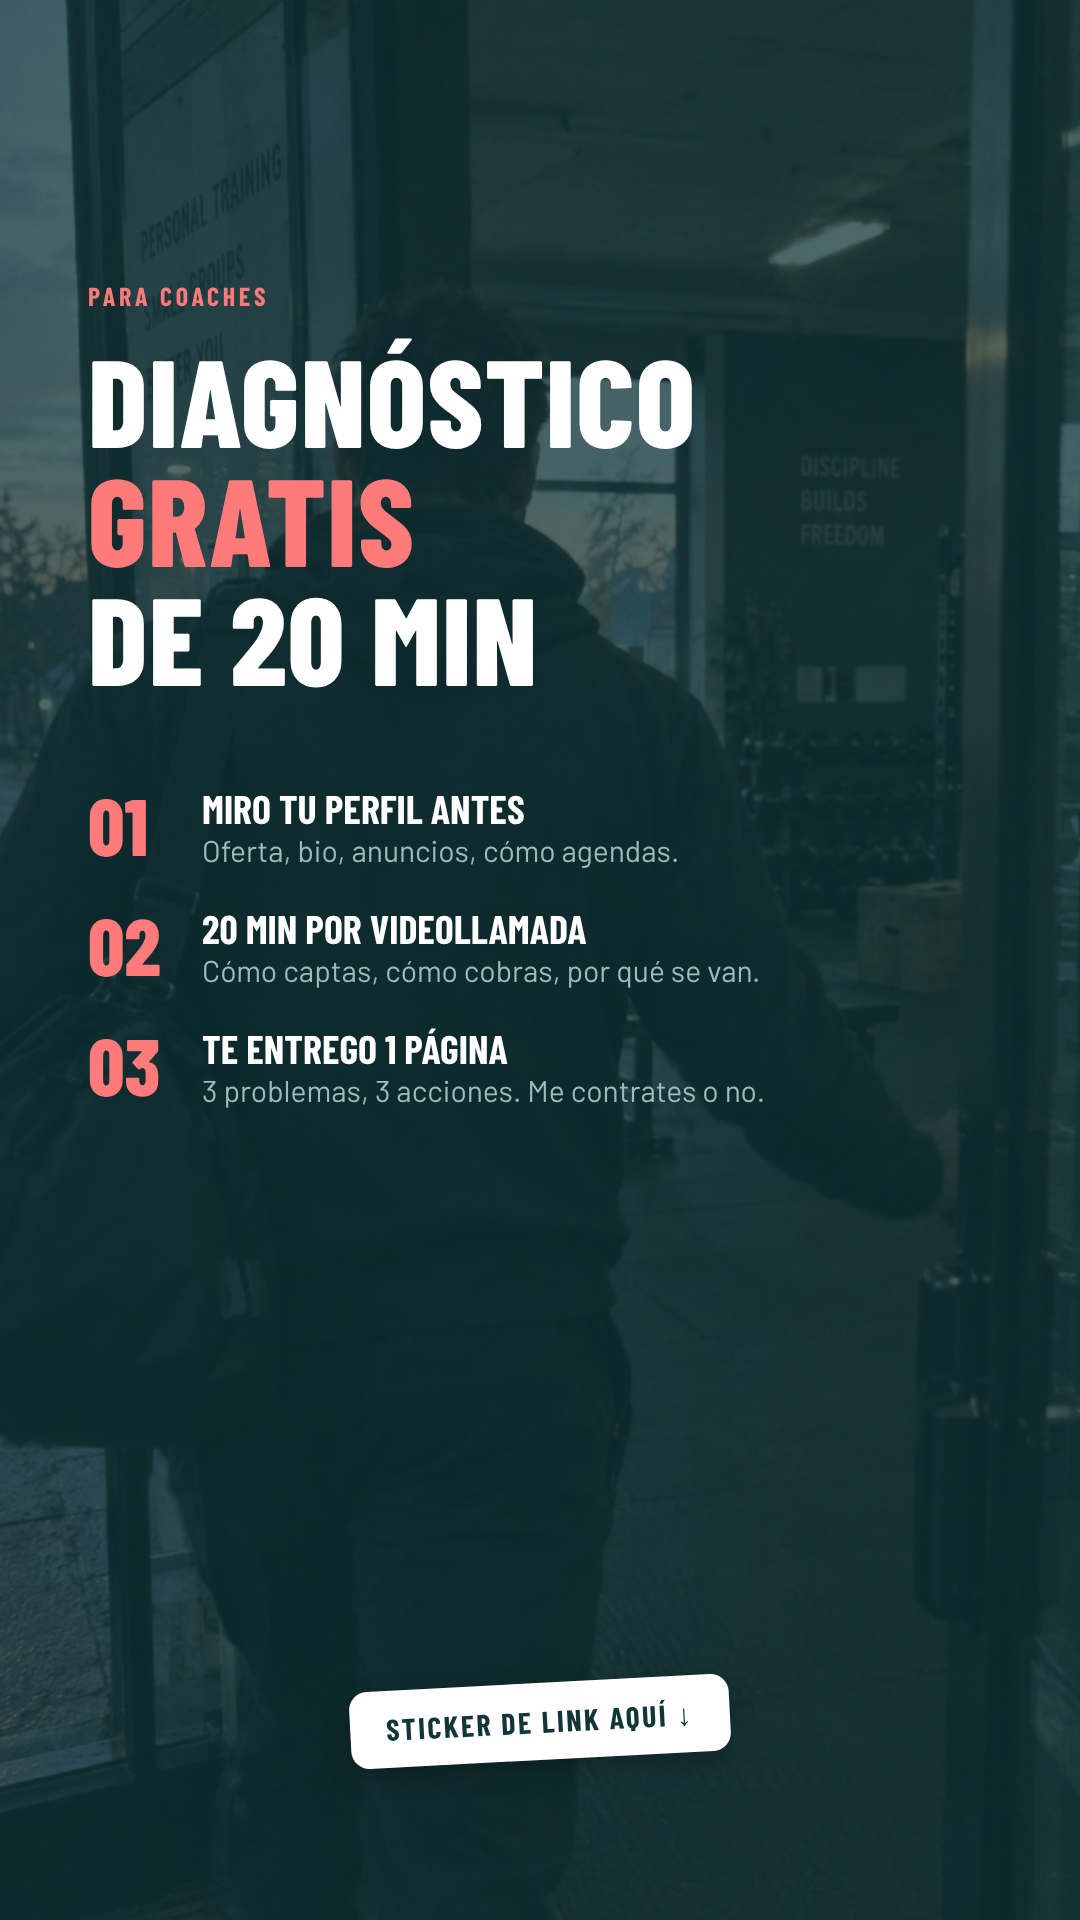
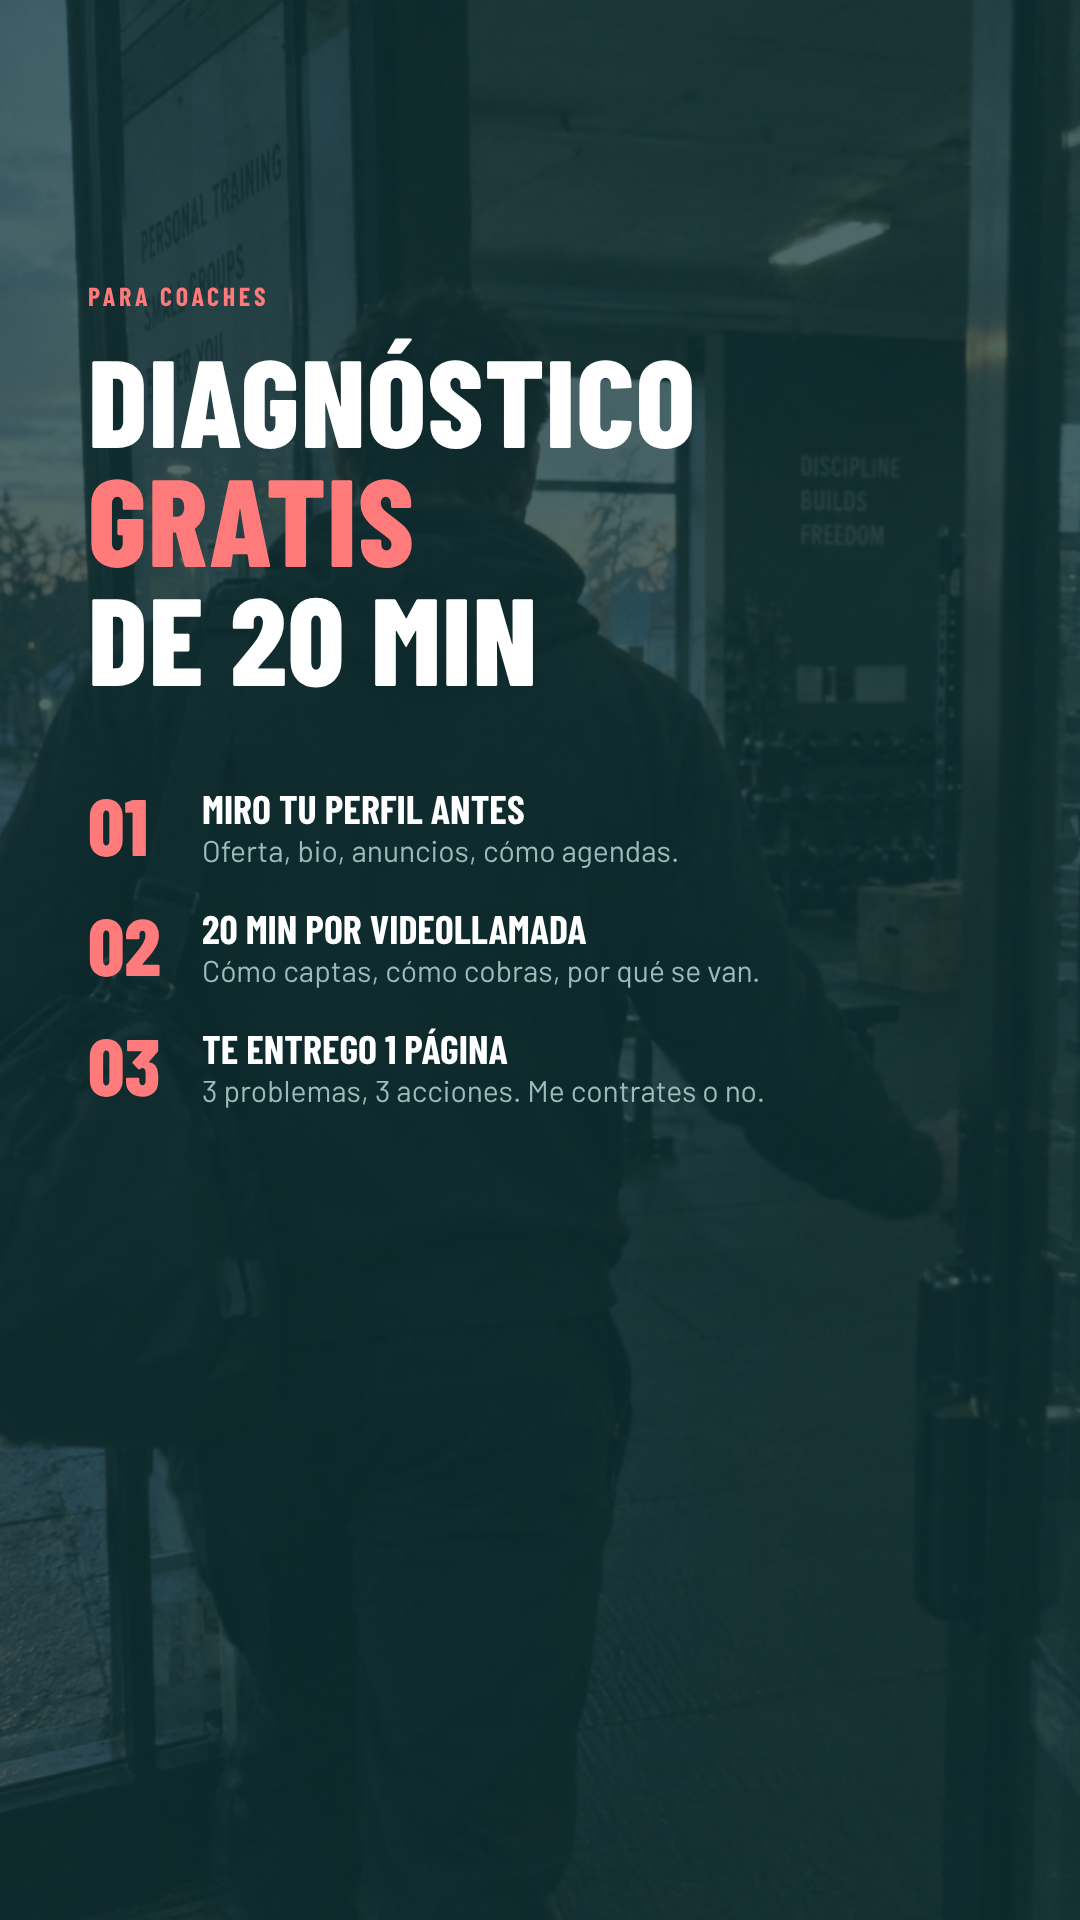
Add publishing guide for Influence Fit graphics and make stories postable
- marca/graficas/PUBLICACION.md: each piece classified as ad, post or story,
  with hook, full caption, hashtags, Meta Ads fields and a two-week schedule
- Stories: bottom safe zone so the reply bar and ad button don't cover text;
  removed the rendered sticker placeholder and the poll instructions
- Founder counters reset to 5 of 5 available (no invented signups)

Claude-Session: https://claude.ai/code/session_01M6XVhTMSYrhRKbgCyp2Bbs

Changed region(s): [[0.3056, 0.875, 0.7028, 0.9375]]

diff --git a/influence-fit/marca/graficas/plantillas/story-02-cupos.html b/influence-fit/marca/graficas/plantillas/story-02-cupos.html
@@ -1,8 +1,8 @@
 <!doctype html><html lang="es"><head><meta charset="utf-8"><link rel="stylesheet" href="../base.css"></head><body><!-- 1080x1920 · Historia: cupos fundadores (editar la clase taken según cupos vendidos) -->
 <div class="canvas story dark photo soft" style="background-image:url(../fotos/litoral-amanecer.jpg)"><div class="pad" style="display:flex;flex-direction:column;height:100%;padding-top:300px">
-  <div class="eyebrow">Quedan cupos fundadores</div>
-  <div style="display:flex;align-items:baseline;gap:30px"><span class="num" style="font-size:420px;line-height:.85">4</span><span style="font-family:var(--display);font-weight:800;text-transform:uppercase;font-size:84px;line-height:1">de 5<br>cupos</span></div>
+  <div class="eyebrow" style="margin-bottom:48px">Quedan cupos fundadores</div>
+  <div style="display:flex;align-items:baseline;gap:30px"><span class="num" style="font-size:420px;line-height:.85">5</span><span style="font-family:var(--display);font-weight:800;text-transform:uppercase;font-size:84px;line-height:1">de 5<br>cupos</span></div>
   <p class="lede" style="margin-top:56px;font-size:40px;max-width:20ch">Sistema de clientes gratis + garantía de 15 evaluaciones en 60 días. Para los primeros 5 coaches.</p>
-  <div class="cupos" style="margin-top:72px;gap:28px"><i class="taken" style="width:150px;height:150px;font-size:64px">1</i><i style="width:150px;height:150px;font-size:64px">2</i><i style="width:150px;height:150px;font-size:64px">3</i><i style="width:150px;height:150px;font-size:64px">4</i><i style="width:150px;height:150px;font-size:64px">5</i></div>
+  <div class="cupos" style="margin-top:72px;gap:28px"><i style="width:150px;height:150px;font-size:64px">1</i><i style="width:150px;height:150px;font-size:64px">2</i><i style="width:150px;height:150px;font-size:64px">3</i><i style="width:150px;height:150px;font-size:64px">4</i><i style="width:150px;height:150px;font-size:64px">5</i></div>
   <div style="margin-top:auto;display:grid;gap:28px"><span class="btn wa" style="justify-content:center">Escríbeme "fundador"</span><div class="foot" style="margin:0"><span class="logo"><i></i><b>Influence<span>Fit</span><small>by Influence Chile</small></b></span><span>Hecho por un coach</span></div></div>
 </div></div></body></html>

diff --git a/influence-fit/marca/graficas/plantillas/story-03-encuesta.html b/influence-fit/marca/graficas/plantillas/story-03-encuesta.html
@@ -2,11 +2,6 @@
 <div class="canvas story" style="background:var(--bg-2)"><div class="pad" style="display:flex;flex-direction:column;height:100%;padding-top:300px">
   <div class="eyebrow" style="color:var(--teal)">Coaches, respondan honesto</div>
   <h1 style="font-size:120px">¿Cuántas horas<br>a la semana<br>pierdes<br><span class="hl">contestando<br>WhatsApp?</span></h1>
-  <div style="margin-top:100px;display:grid;gap:20px">
-    <div class="card" style="padding:30px 40px;font-family:var(--display);text-transform:uppercase;font-size:40px;font-weight:700">Menos de 3</div>
-    <div class="card" style="padding:30px 40px;font-family:var(--display);text-transform:uppercase;font-size:40px;font-weight:700">3 a 7</div>
-    <div class="card" style="padding:30px 40px;font-family:var(--display);text-transform:uppercase;font-size:40px;font-weight:700;border-color:var(--accent)">Más de 7 (y me da vergüenza)</div>
-  </div>
-  <p style="margin-top:40px;font-size:28px;color:var(--muted)">Reemplaza las tarjetas por el sticker de encuesta de Instagram. Al día siguiente, historia con el resultado y el link al diagnóstico.</p>
+  <div style="flex:1"></div>
   <div class="foot" style="margin-top:auto"><span class="logo"><i></i><b>Influence<span>Fit</span><small>by Influence Chile</small></b></span><span>@influence.chile</span></div>
 </div></div></body></html>

diff --git a/influence-fit/marca/graficas/plantillas/story-04-prueba.html b/influence-fit/marca/graficas/plantillas/story-04-prueba.html
@@ -2,7 +2,7 @@
 <div class="canvas story dark"><div class="pad" style="display:flex;flex-direction:column;height:100%;padding-top:200px">
   <div class="eyebrow">Mis propios canales · este mes</div>
   <h1 style="font-size:96px">Esto es lo que<br><span class="hl">hago yo.</span></h1>
-  <div class="foto" style="margin-top:56px;height:960px;border-radius:28px;border:2px solid var(--ink-line)"><div class="nota">Captura real: reporte mensual o agenda de evaluaciones. Tapar nombres de clientes.</div></div>
+  <div class="foto" style="margin-top:48px;height:800px;border-radius:28px;border:2px solid var(--ink-line)"><div class="nota">Captura real: reporte mensual o agenda de evaluaciones. Tapar nombres de clientes.</div></div>
   <p class="lede" style="margin-top:40px;font-size:34px">El mismo sistema que instalo en tu negocio. Los números se actualizan cada mes.</p>
   <div class="foot" style="margin-top:auto"><span class="logo"><i></i><b>Influence<span>Fit</span><small>by Influence Chile</small></b></span><span>Hecho por un coach</span></div>
 </div></div></body></html>

diff --git a/influence-fit/marca/graficas/plantillas/story-01-diagnostico.html b/influence-fit/marca/graficas/plantillas/story-01-diagnostico.html
@@ -7,5 +7,5 @@
     <div style="display:grid;grid-template-columns:90px 1fr;gap:24px;align-items:start"><span class="num" style="font-size:80px">02</span><div><b style="font-family:var(--display);text-transform:uppercase;font-size:40px;display:block">20 min por videollamada</b><span style="font-size:30px;color:var(--ink-muted)">Cómo captas, cómo cobras, por qué se van.</span></div></div>
     <div style="display:grid;grid-template-columns:90px 1fr;gap:24px;align-items:start"><span class="num" style="font-size:80px">03</span><div><b style="font-family:var(--display);text-transform:uppercase;font-size:40px;display:block">Te entrego 1 página</b><span style="font-size:30px;color:var(--ink-muted)">3 problemas, 3 acciones. Me contrates o no.</span></div></div>
   </div>
-  <div style="margin-top:auto;text-align:center;padding-bottom:40px"><span class="sticker">Sticker de link aquí ↓</span></div>
+  <div style="margin-top:auto"></div>
 </div></div></body></html>

diff --git a/influence-fit/marca/graficas/base.css b/influence-fit/marca/graficas/base.css
@@ -13,7 +13,7 @@ body { font-family: var(--body); color: var(--text); background: var(--bg); -web
 .canvas { width: 1080px; position: relative; overflow: hidden; display: flex; flex-direction: column; }
 .canvas.sq { height: 1080px; } .canvas.p45 { height: 1350px; } .canvas.story { height: 1920px; }
 .canvas.dark { background: var(--ink); color: #fff; }
-.pad { padding: 88px; } .story .pad { padding: 120px 88px; }
+.pad { padding: 88px; } .story .pad { padding: 120px 88px 270px; }
 h1, h2 { font-family: var(--display); text-transform: uppercase; letter-spacing: .01em; line-height: .96; font-weight: 800; }
 h1 { font-size: 112px; } h2 { font-size: 80px; }
 .hl { color: var(--accent); }

diff --git a/influence-fit/marca/graficas/plantillas/feed-02-fundadores.html b/influence-fit/marca/graficas/plantillas/feed-02-fundadores.html
@@ -7,6 +7,6 @@
     <li><span>Garantía: 15 evaluaciones agendadas en 60 días o el mes siguiente <b>corre por mi cuenta</b></span></li>
     <li><span>Trato directo conmigo, <b>sin ejecutivo de cuentas</b></span></li>
   </ul>
-  <div class="cupos" style="margin-top:36px"><i class="taken">1</i><i>2</i><i>3</i><i>4</i><i>5</i></div>
+  <div class="cupos" style="margin-top:36px"><i>1</i><i>2</i><i>3</i><i>4</i><i>5</i></div>
   <div class="foot"><span class="logo"><i></i><b>Influence<span>Fit</span><small>by Influence Chile</small></b></span><span>Para coaches y gimnasios</span></div>
 </div></div></body></html>

diff --git a/influence-fit/marca/graficas/PUBLICACION.md b/influence-fit/marca/graficas/PUBLICACION.md
@@ -1,0 +1,235 @@
+# Influence Fit — Qué es cada pieza y con qué texto sale
+
+Las 14 imágenes están en `png/`. Los textos están escritos en primera persona de Gabriel, así que sirven
+igual en su cuenta de coach o en @influence.chile.
+
+**Cómo leer cada ficha**
+- **Hook:** lo primero que se ve o se lee. En posts es la primera línea del texto (lo que aparece antes del
+  "más"). En historias y anuncios verticales es el titular de la imagen.
+- **Texto:** el copy completo, listo para pegar.
+- **Hashtags:** van al final del texto, separados por un salto de línea.
+
+---
+
+## Resumen
+
+| Archivo | Tipo | Formato | Estado |
+|---|---|---|---|
+| `ad-01-chat.png` | Anuncio | Feed 4:5 (1080×1350) | Listo. Cambiar los precios del chat por los reales. |
+| `ad-02-coach.png` | Anuncio | Feed 1:1 (1080×1080) | Listo |
+| `ad-03-story.png` | Anuncio | Historias y Reels 9:16 (1080×1920) | Listo |
+| `feed-01-presentacion.png` | Post | Imagen única 4:5 | Listo. Fijar en el perfil. |
+| `carrusel-01` a `carrusel-05` | Post | Carrusel de 5, 4:5 | Listo |
+| `feed-02-fundadores.png` | Post | Imagen única 4:5 | Listo. Fijar en el perfil. |
+| `story-01-diagnostico.png` | Historia | 9:16 | Agregar sticker de enlace |
+| `story-02-cupos.png` | Historia | 9:16 | Agregar sticker de enlace |
+| `story-03-encuesta.png` | Historia | 9:16 | Agregar sticker de encuesta |
+| `story-04-prueba.png` | Historia | 9:16 | Falta la captura real |
+
+Los contadores de cupos fundadores parten en **5 de 5 disponibles**. Cada vez que se cierre uno, se actualiza
+el gráfico (clase `taken` en el HTML) y el texto. Nunca mostrar cupos tomados que no existen.
+
+---
+
+## ANUNCIOS
+
+Configuración común en Meta Ads:
+- **Objetivo:** Mensajes, con destino WhatsApp. Alternativa: Tráfico a la landing (`#diagnostico`).
+- **Mensaje precargado:** "Hola Gabriel, quiero el diagnóstico gratis."
+- **Público inicial:** Chile, 24 a 50 años, intereses entrenamiento personal, CrossFit, personal trainer,
+  nutrición deportiva, administración de gimnasios. Para Litoral Central y Valparaíso, segmentar por radio.
+- **Sin hashtags.** En un anuncio cada hashtag es un enlace que saca a la persona del anuncio antes de que
+  llegue a WhatsApp.
+
+### ad-01-chat · Anuncio feed 4:5
+
+**Hook:** ¿Cuántos de los que te preguntaron precio este mes terminaron agendando?
+
+**Texto principal:**
+```
+¿Cuántos de los que te preguntaron precio este mes terminaron agendando?
+
+Si respondes tarde, ya le escribieron a otro coach. Si respondes solo con el precio, se enfría.
+
+Lo que ves en la imagen es lo que armo para coaches: un asistente de WhatsApp que responde en minutos, pregunta qué quiere lograr la persona y le ofrece horarios reales de tu agenda. Tú llegas a la evaluación, no al chat.
+
+Te hago un diagnóstico gratis de 20 minutos y te muestro dónde se te están yendo los clientes. Escríbeme "DIAGNÓSTICO".
+```
+**Título:** Que tus anuncios terminen en una evaluación agendada
+**Descripción:** Diagnóstico gratis · 20 min
+**Botón:** Enviar mensaje
+
+### ad-02-coach · Anuncio feed 1:1
+
+**Hook:** Llevo 15 años entrenando gente. Sé lo que es tener la agenda llena un mes y con huecos al siguiente.
+
+**Texto principal:**
+```
+Llevo 15 años entrenando gente. Sé lo que es tener la agenda llena un mes y con huecos al siguiente.
+
+Ahora instalo en el negocio de otros coaches el mismo sistema que uso yo:
+
+Anuncios que llevan a una evaluación agendada, no a "info por DM".
+Un asistente de WhatsApp que responde, califica y agenda solo.
+Mensajes en las semanas 2, 6 y 10, que es cuando la gente abandona.
+
+No vendo "redes sociales". Vendo evaluaciones agendadas y clientes que renuevan, y te muestro el número cada mes.
+
+Diagnóstico gratis de 20 minutos. Escríbeme "DIAGNÓSTICO".
+```
+**Título:** Hecho por un coach, para coaches
+**Descripción:** 5 cupos fundadores
+**Botón:** Enviar mensaje
+
+### ad-03-story · Anuncio Historias y Reels 9:16
+
+**Hook:** ¿Cuántos te preguntaron precio este mes y cuántos agendaste? (es el titular de la imagen; se lee en el primer segundo)
+
+**Texto principal** (en historias casi no se ve, por eso es corto):
+```
+Si no sabes la respuesta, ahí está la plata que se te va. Diagnóstico gratis de 20 minutos para coaches.
+```
+**Título:** Diagnóstico gratis para coaches
+**Botón:** Enviar mensaje
+**Ubicaciones:** solo Historias y Reels de Instagram y Facebook. El borde inferior ya viene libre para que el
+botón del anuncio no tape el texto.
+
+---
+
+## POSTS
+
+Hashtags: entre 5 y 8 por post, mezclando el nicho (coaches), el tema y la zona. Más que eso no suma alcance
+y se ve desesperado.
+
+### feed-01-presentacion · Post de presentación (fijar 1.º)
+
+**Hook:** Más clientes, menos administración y que no se te vayan al tercer mes.
+
+**Texto:**
+```
+Más clientes, menos administración y que no se te vayan al tercer mes.
+
+Llevo 15 años entrenando gente y conozco las tres fugas de este negocio: la agenda que sube y baja, las horas contestando WhatsApp y el cliente que se va justo antes de ver resultados.
+
+Influence Fit es lo que armé para tapar esas fugas en mi propio negocio. Ahora lo instalo en el de otros coaches y gimnasios: anuncios que terminan en evaluaciones agendadas, un asistente de WhatsApp que responde y agenda solo, y seguimiento en las semanas en que la gente abandona.
+
+Hecho por un coach.
+
+Si quieres saber cuál de las tres te está costando más, escríbeme "DIAGNÓSTICO". Son 20 minutos y es gratis.
+```
+**Hashtags:**
+```
+#entrenadorpersonal #coachfitness #entrenadorpersonalchile #negociofitness #marketingparacoaches #gimnasiochile #litoralcentral
+```
+
+### carrusel-01 a carrusel-05 · Carrusel "Tres cosas que te están costando clientes"
+
+Orden: 01 portada, 02 clientes inestables, 03 administración por WhatsApp, 04 se van al tercer mes, 05 cierre.
+
+**Hook:** Ninguna de las tres se arregla publicando más. (la portada hace el resto: "Tres cosas que te están costando clientes")
+
+**Texto:**
+```
+Ninguna de las tres se arregla publicando más.
+
+01. Clientes inestables. Un mes lleno y el siguiente con huecos. Se arregla con anuncios que terminan en una evaluación agendada y con alguien que responda en 2 minutos, no en 20 horas.
+
+02. Administración por WhatsApp. Cobros, recordatorios, cambios de hora, fichas de lesiones. Se arregla con una ficha de onboarding que llega sola a tu planilla y recordatorios que salen solos.
+
+03. Se van al tercer mes. Entran motivados, el resultado tarda y nadie les habla. Se arregla con un mensaje tuyo en la semana 2, 6 y 10, justo cuando suelen abandonar.
+
+¿Cuál es la tuya? Te leo en los comentarios.
+
+Si no lo tienes claro, escríbeme "DIAGNÓSTICO" y lo vemos en 20 minutos. Guárdalo para la próxima vez que revises tu negocio.
+```
+**Hashtags:**
+```
+#entrenadorpersonal #personaltrainer #coachonline #negociofitness #retenciondeclientes #crossfitchile #entrenadorpersonalchile #marketingfitness
+```
+
+### feed-02-fundadores · Post cupos fundadores (fijar 2.º)
+
+**Hook:** Estoy partiendo Influence Fit con 5 coaches. Solo 5.
+
+**Texto:**
+```
+Estoy partiendo Influence Fit con 5 coaches. Solo 5.
+
+Los que entren ahora tienen:
+
+El sistema de clientes completo incluido gratis: ficha de onboarding, asistente de WhatsApp, recordatorios, contrato y consentimiento. Vale desde $490.000.
+
+Una garantía por escrito: si en 60 días no tienes al menos 15 evaluaciones agendadas, el mes siguiente de gestión corre por mi cuenta.
+
+Trato directo conmigo. Sin ejecutivo de cuentas.
+
+A cambio te pido un testimonio en video y poder mostrar tus números como caso de estudio.
+
+Cuando se llenen los 5, se cierra. Escríbeme "FUNDADOR".
+```
+**Hashtags:**
+```
+#entrenadorpersonal #coachfitness #gimnasioboutique #crossfitchile #entrenadorpersonalchile #negociofitness #valparaiso
+```
+
+---
+
+## HISTORIAS
+
+Las historias no llevan texto aparte: todo va en la imagen y en los stickers que se agregan en Instagram.
+Los hashtags casi no dan alcance en historias. Sirve más el **sticker de ubicación** (El Tabo, Viña del Mar o
+Valparaíso) y, como mucho, un hashtag chico escondido detrás de un sticker.
+
+### story-01-diagnostico · Historia con enlace
+
+**Hook:** Diagnóstico gratis de 20 min
+**Sticker de enlace:** a la landing (`…/#diagnostico`) o a `wa.me/56965450723`, con el texto "QUIERO EL DIAGNÓSTICO".
+Va en el espacio libre de abajo, sobre la zona segura.
+**Ubicación:** El Tabo
+**Hashtag:** #entrenadorpersonal
+
+### story-02-cupos · Historia de cupos fundadores
+
+**Hook:** Quedan 5 de 5 cupos
+**Sticker de enlace:** `wa.me/56965450723?text=FUNDADOR`, texto "QUIERO UN CUPO".
+**Ubicación:** El Tabo
+**Hashtag:** #coachfitness
+Actualizar el número grande y los círculos cada vez que se cierre un cupo.
+
+### story-03-encuesta · Historia de interacción
+
+**Hook:** ¿Cuántas horas a la semana pierdes contestando WhatsApp?
+**Sticker de encuesta** (en el espacio libre de abajo), con estas opciones:
+- Menos de 3
+- 3 a 7
+- Más de 7 (y me da vergüenza)
+
+**Al día siguiente:** una historia con el resultado y esta frase: "La mayoría respondió X. Eso son X horas al
+mes que no entrenan a nadie. Te muestro cómo las recupero yo", con el sticker de enlace al diagnóstico.
+Responde por mensaje directo a cada coach que votó "más de 7".
+**Hashtag:** #entrenadorpersonalchile
+
+### story-04-prueba · Historia "Esto es lo que hago yo"
+
+**No publicar todavía.** El recuadro central es para una captura real: el reporte mensual de los canales
+propios o la agenda de evaluaciones de la semana, con nombres de clientes tapados. Sin esa captura la pieza
+no tiene sentido.
+**Hook:** Esto es lo que hago yo.
+**Sticker de texto opcional sobre la captura:** "Esta semana: X evaluaciones agendadas"
+**Hashtag:** ninguno; esta historia es para quien ya te sigue.
+
+---
+
+## Orden sugerido para las dos primeras semanas
+
+| Día | Feed | Historias |
+|---|---|---|
+| Lunes 1 | `feed-01-presentacion` (fijar) | `story-03-encuesta` |
+| Martes 1 | | Resultado de la encuesta + enlace |
+| Miércoles 1 | Carrusel "Tres cosas" | `story-01-diagnostico` |
+| Viernes 1 | `feed-02-fundadores` (fijar) | `story-02-cupos` |
+| Lunes 2 | | `story-04-prueba` (cuando esté la captura) |
+| Martes 2 | Se encienden los 3 anuncios | |
+
+Los anuncios parten cuando el perfil ya tiene estos tres posts: quien haga clic y revise la cuenta tiene que
+encontrar algo coherente, no un perfil vacío.
